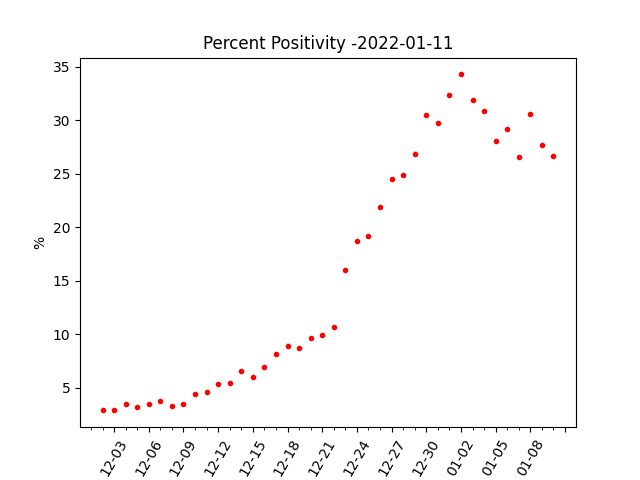
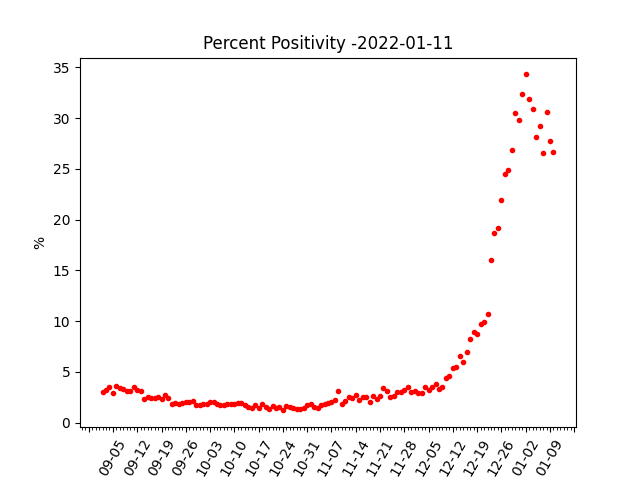
automated

diff --git a/Scripts/Covid_AnalysisPlot.py b/Scripts/Covid_AnalysisPlot.py
@@ -723,12 +723,14 @@ filename = "/Users/matti/Desktop/Covid/covidtesting_"+strToday+".csv"
 
 reported_date = 0
 pctPos = 10
+tests = 9
 
 
 	
 count = 0
 fullline = ""
 PctPosLastDay = {}
+TestsLastDay = {}
 
 
 
@@ -747,6 +749,10 @@ with open(filename, newline='') as csvfile:
 				PctPosLastDay[line[reported_date]] = float(line[pctPos])
 			except:
 				PctPosLastDay[line[reported_date]] = 0
+			try:
+				TestsLastDay[line[reported_date]] = float(line[tests])
+			except:
+				TestsLastDay[line[reported_date]] = 0
 
 ## PctPos
 
@@ -785,4 +791,44 @@ plt.ylabel('%')
 
 
 plt.savefig('/Users/matti/GitHub/casePlots/pos.png')
+plt.clf()
+
+## Tests
+
+chartPoint = []
+chartX = []
+for i in sorted(TestsLastDay):
+	refDateStr = "2021-09-01"
+	if(datetime.strptime(i,'%Y-%m-%d') > datetime.strptime(refDateStr,'%Y-%m-%d')):
+		chartX.append(i[-5:])
+		chartPoint.append(TestsLastDay[i])
+		print(i)
+		print(TestsLastDay[i])
+		#chartX.append(i)
+		
+
+xdates = [dt.strptime(dstr,'%m-%d') for dstr in chartX]
+
+num_series = pd.Series(chartPoint)
+windows = num_series.rolling(7)
+mov_avg = windows.mean()
+
+mov_avg_list = mov_avg.tolist()
+
+daysToPlot = -15
+
+
+#plt.plot(chartX[daysToPlot:],chartPoint[daysToPlot:],'r.')
+plt.plot(chartX,chartPoint,'r.')
+plt.plot(chartX,mov_avg_list)
+plt.title('Tests Completed -' + strToday)
+
+plt.setp(plt.gca().xaxis.get_majorticklabels(),rotation=60)
+plt.gca().xaxis.set_major_locator(mdates.DayLocator(interval=7))
+plt.gca().xaxis.set_minor_locator(mdates.DayLocator())
+plt.xlabel('Date')
+plt.ylabel('Tests')
+
+
+plt.savefig('/Users/matti/GitHub/casePlots/tests.png')
 plt.clf()

diff --git a/Scripts/Covid_PositivityPlot.py b/Scripts/Covid_PositivityPlot.py
@@ -79,7 +79,7 @@ with open(filename, newline='') as csvfile:
 
 chartPoint = []
 for i in sorted(PctPosLastDay):
-	refDateStr = "2021-12-01"
+	refDateStr = "2021-09-01"
 	if(datetime.strptime(i,'%Y-%m-%d') > datetime.strptime(refDateStr,'%Y-%m-%d')):
 		chartX.append(i[-5:])
 		chartPoint.append(PctPosLastDay[i])
@@ -104,7 +104,7 @@ plt.plot(chartX,chartPoint,'r.')
 plt.title('Percent Positivity -' + strToday)
 
 plt.setp(plt.gca().xaxis.get_majorticklabels(),rotation=60)
-plt.gca().xaxis.set_major_locator(mdates.DayLocator(interval=3))
+plt.gca().xaxis.set_major_locator(mdates.DayLocator(interval=7))
 plt.gca().xaxis.set_minor_locator(mdates.DayLocator())
 plt.xlabel('Date')
 plt.ylabel('%')
@@ -118,7 +118,7 @@ plt.clf()
 chartPoint = []
 chartX = []
 for i in sorted(TestsLastDay):
-	refDateStr = "2021-12-01"
+	refDateStr = "2021-09-01"
 	if(datetime.strptime(i,'%Y-%m-%d') > datetime.strptime(refDateStr,'%Y-%m-%d')):
 		chartX.append(i[-5:])
 		chartPoint.append(TestsLastDay[i])
@@ -140,13 +140,14 @@ daysToPlot = -15
 
 #plt.plot(chartX[daysToPlot:],chartPoint[daysToPlot:],'r.')
 plt.plot(chartX,chartPoint,'r.')
+plt.plot(chartX,mov_avg_list)
 plt.title('Tests Completed -' + strToday)
 
 plt.setp(plt.gca().xaxis.get_majorticklabels(),rotation=60)
-plt.gca().xaxis.set_major_locator(mdates.DayLocator(interval=3))
+plt.gca().xaxis.set_major_locator(mdates.DayLocator(interval=7))
 plt.gca().xaxis.set_minor_locator(mdates.DayLocator())
 plt.xlabel('Date')
-plt.ylabel('%')
+plt.ylabel('Tests')
 
 
 plt.savefig('/Users/matti/GitHub/casePlots/tests.png')

diff --git a/index.md b/index.md
@@ -30,6 +30,7 @@ The grey dots are the actual case counts, the blue line is the trailing 7 day av
 **Note:  As of early January 2022, Ontario's testing capability is broken.  Testing is unavailable except for small specific groups.  Charts below of case counts have been removed for the time being**
 
 ![Image0](/pos.png)
+![Image1](/tests.png)
 
 <!--
 ![Image1](/PHU/Ontario_Chart1.png)
